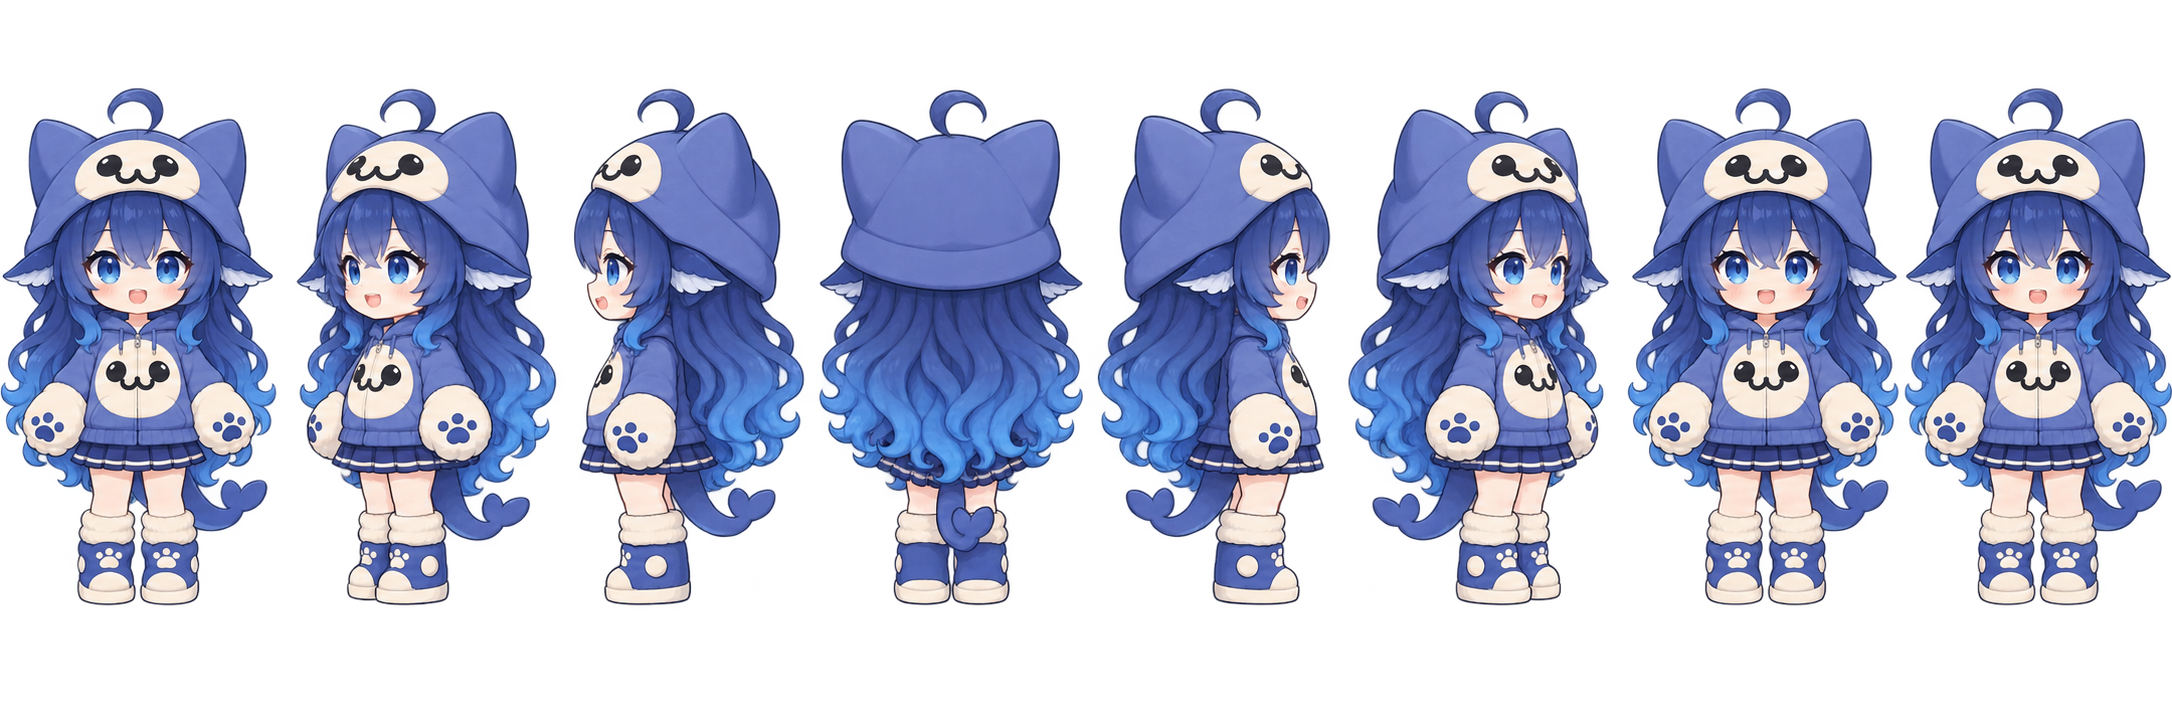
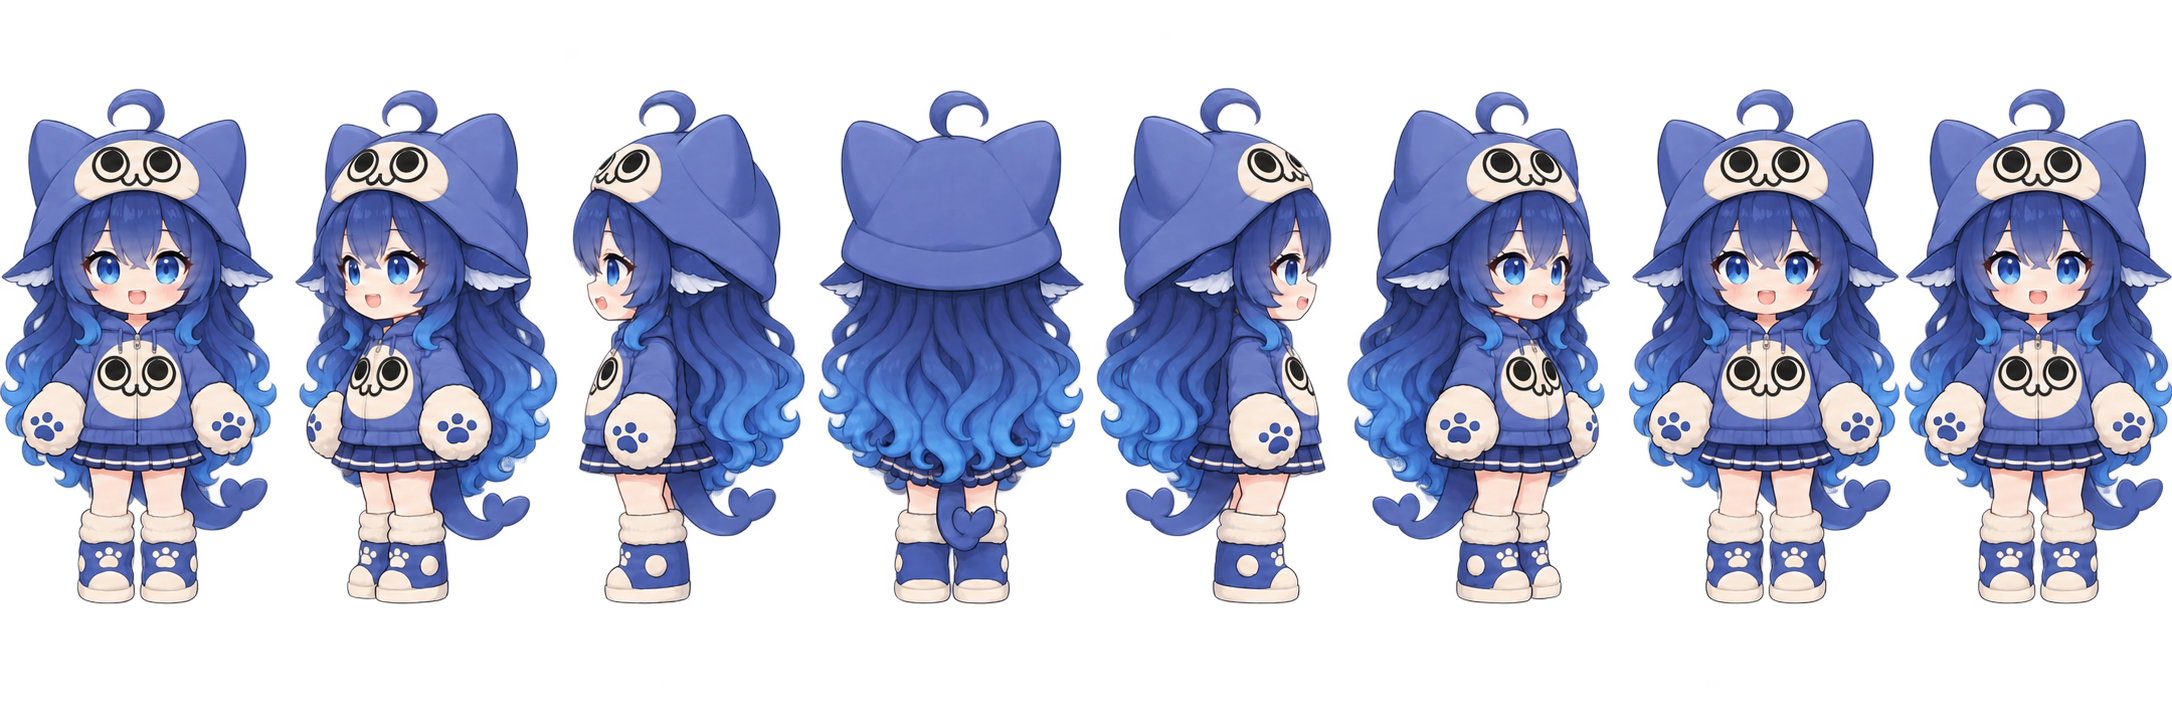
Refine cat mascot eyes and give cosplay outfits cozy names

diff --git a/game/docs/CAT_PAW.md b/game/docs/CAT_PAW.md
@@ -1,4 +1,10 @@
-# 怪猎呆猫 COS 服制作记录
+# 蓝绒猫爪套装制作记录
+
+## 猫脸图案修订
+
+猫脸采用用户补充的呆猫参考：大黑色圆瞳、黑色外圈、沿下方和两侧包围瞳孔的米白月牙眼圈，以及连接的圆弧 W 嘴；不能简化成带白色高光的小圆点眼睛。兜帽及胸口可见猫脸均使用同一标准，肥鱼本人的蓝色眼睛保持原样。
+
+使用内置 Image Gen 先局部编辑 reference.png，再以现有每项八帧图集作为编辑目标、修正版立绘作为图案参考，保留动作、比例、帧位置、脚底基线和道具。提示词：Change only printed hood/chest mascot faces: large circular black pupils, thick black outer circles, broad ivory crescent rings along bottom and sides, thin rounded connected W mouth. Preserve girl's own blue anime eyes, eight poses, scale, positions and baseline. True transparent RGBA background, remove exterior haze and speckles. 生成后重新测量帧边界并检查，不直接沿用旧图集坐标。
 
 使用内置 Image Gen，根据用户提供的服装三视图制作立绘和16项独立动作图集。固定蓝色猫耳兜帽、米白猫脸额头及腹部贴布、猫爪袖口、蓝色短裙和毛绒猫爪靴，保留角色蓝发、鱼鳍和鲸鱼尾巴。保留角色原有署名和非商业限制。
 

diff --git a/game/docs/OUTFITS.md b/game/docs/OUTFITS.md
@@ -43,7 +43,7 @@ Windows 可以将 `/path/to/your-outfit` 换成素材目录的实际路径并加
 
 ## 矩形动作帧
 
-Claude 娘连帽衫使用矩形帧示例。grid.width 为每帧宽度（32～512），grid.height 为高度（32～1024），可以不相等；加载器按帧高度归一化显示，避免拉伸和裁切。仍须逐帧核对脚底位置、左右分隔和循环接缝。矩形帧包需要同时更新检查脚本和前端加载器，旧版不支持。示例见 public/assets/outfits/cream_hoodie/outfit.json。立绘和16项动作由内置 Image Gen 生成，所有动作均为独立图集。
+橙星奶油卫衣使用矩形帧示例。grid.width 为每帧宽度（32～512），grid.height 为高度（32～1024），可以不相等；加载器按帧高度归一化显示，避免拉伸和裁切。仍须逐帧核对脚底位置、左右分隔和循环接缝。矩形帧包需要同时更新检查脚本和前端加载器，旧版不支持。示例见 public/assets/outfits/cream_hoodie/outfit.json。立绘和16项动作由内置 Image Gen 生成，所有动作均为独立图集。
 
 ## 轻量预览与运行图
 

diff --git a/game/docs/CREAM_HOODIE.md b/game/docs/CREAM_HOODIE.md
@@ -1,4 +1,4 @@
-# Claude 娘连帽衫制作记录
+# 橙星奶油卫衣制作记录
 
 使用内置 Image Gen 制作；未使用 CLI 或付费 API 备用路径。参考图为用户提供的角色服装设计，保留角色原有署名与非商业限制。
 
